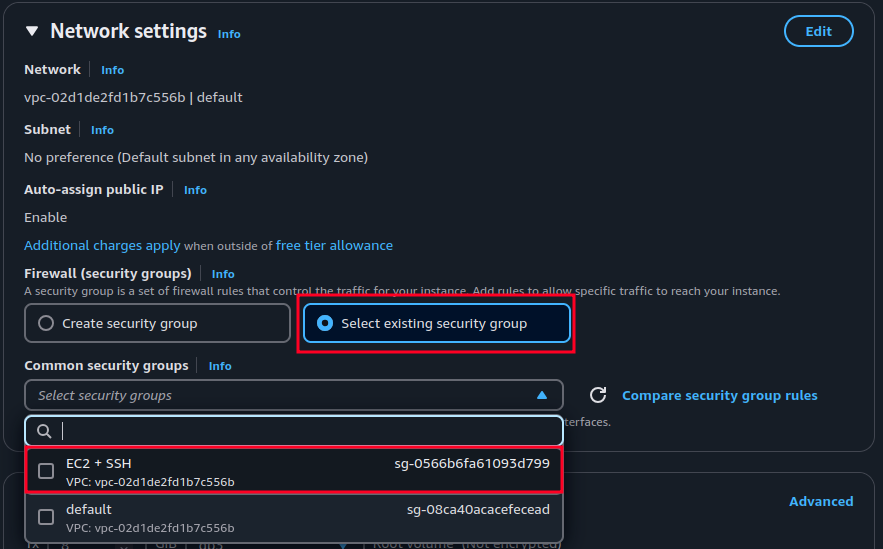
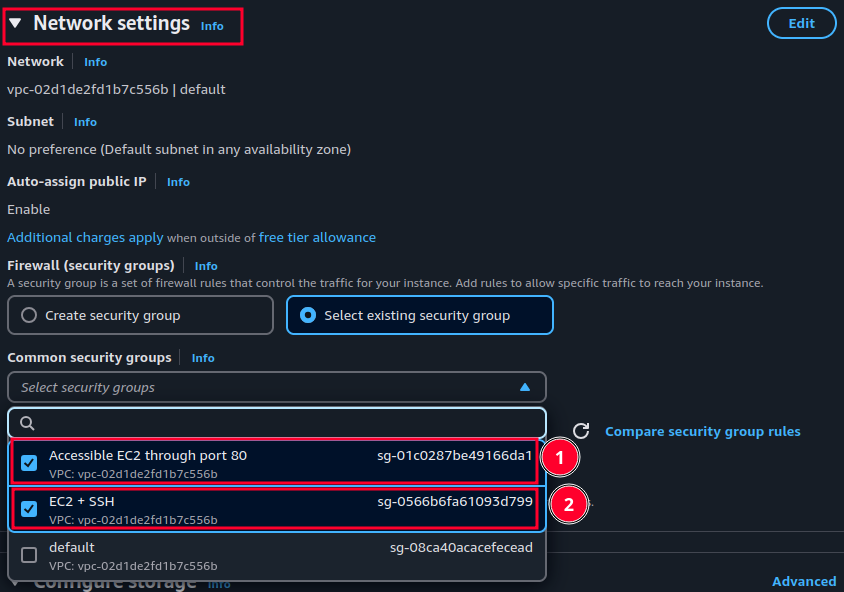
chore: assign 2 security group to your ec2 while creating it

diff --git a/aws/EC2/launching-an-instance.md b/aws/EC2/launching-an-instance.md
@@ -26,9 +26,9 @@
 
    ![Choose or create a key pair](./assets/key-pair.png)
 
-7. If you specified a key pair in the previous step now you need to also [choose/create a security group](./security-groups.md#create-a-security-group) where SSH is open. Thus we can access our EC2 instance. in the network settings section:
+7. If you specified a key pair in the previous step now you need to also [choose/create a security group](./security-groups.md#create-a-security-group) where SSH and port 80 is open. Thus we can access our EC2 instance. in the network settings section:
 
-   ![Choose a security group which allows Inbound SSH requests](./assets/network-setting-choose-a-security-group.png)
+   ![Choose a security group which allows Inbound SSH requests + requests to port 80](./assets/network-setting-choose-a-security-group.png)
 
    > [!NOTE]
    >
